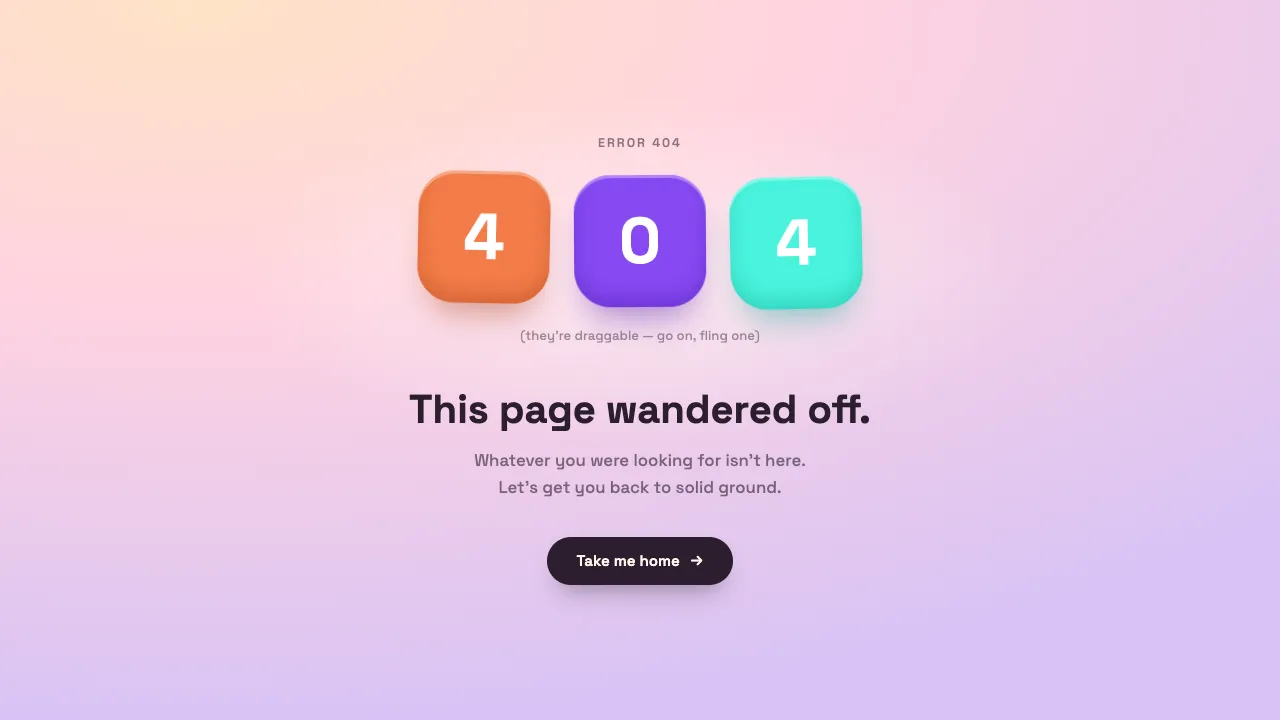
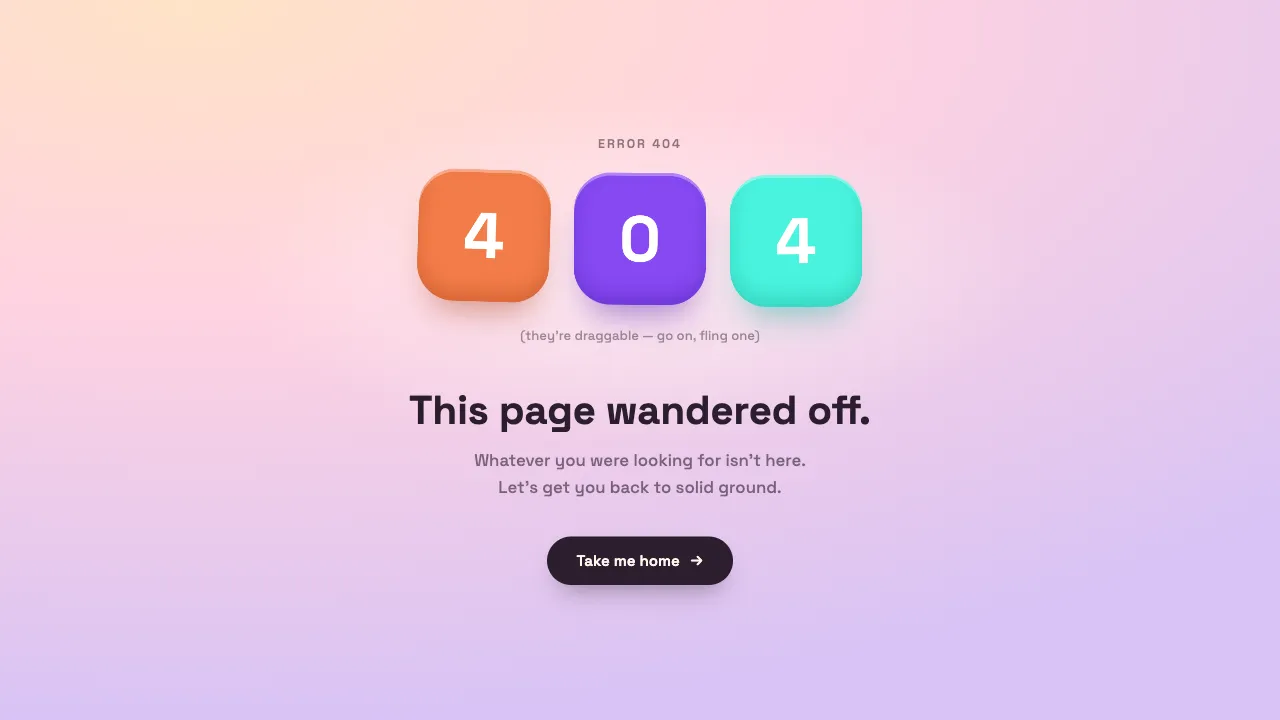
fix: harden Stray's drag gesture and add tactile tilt
setPointerCapture can throw in some browsers/scenarios; since it ran
before attaching the window pointermove/pointerup listeners, a
failure there silently killed the whole drag. Now wrapped in try/catch
so tracking still works via the window-level fallback listeners.

Also adds a visibilitychange safety net so a digit can never get
stuck displaced if the tab is hidden mid-flight (rAF freezes for
hidden documents, which would otherwise strand an in-progress spring),
and a subtle rotation tied to drag offset so the fling reads as a
physical object rather than a flat translation.

diff --git a/public/demo/08-stray/script.js b/public/demo/08-stray/script.js
@@ -4,6 +4,9 @@ const prefersReducedMotion = window.matchMedia('(prefers-reduced-motion: reduce)
 // levemente en overshoot al soltar — el "bounce" que solo debe pasar tras arrastrar.
 const SPRING = { stiffness: 220, damping: 18, mass: 1 }
 const REST_DELTA = 0.4
+const MAX_TILT = 14
+
+const instances = []
 
 class DraggableDigit {
   constructor(el) {
@@ -31,7 +34,13 @@ class DraggableDigit {
     this.cancelSpring()
     this.dragging = true
     this.pointerId = e.pointerId
-    this.el.setPointerCapture(e.pointerId)
+    try {
+      // Algunos navegadores pueden rechazar la captura en ciertos escenarios;
+      // seguimos igual con los listeners en window como respaldo.
+      this.el.setPointerCapture(e.pointerId)
+    } catch {
+      /* noop */
+    }
     this.el.classList.add('is-dragging')
 
     this.startPointerX = e.clientX
@@ -74,24 +83,34 @@ class DraggableDigit {
     window.removeEventListener('pointerup', this.onPointerUp)
 
     if (prefersReducedMotion) {
-      this.settleInstantly()
+      this.snapHome({ animate: true })
     } else {
       this.startSpring()
     }
   }
 
   applyTransform() {
-    this.el.style.transform = `translate(${this.x}px, ${this.y}px)`
+    // Ligera inclinación proporcional al desplazamiento horizontal: hace que el
+    // arrastre se sienta como un objeto físico volando, no solo una traslación.
+    const tilt = Math.max(-MAX_TILT, Math.min(MAX_TILT, this.x * 0.06))
+    this.el.style.transform = `translate(${this.x}px, ${this.y}px) rotate(${tilt}deg)`
   }
 
-  settleInstantly() {
-    this.el.style.transition = 'transform 220ms ease-out'
+  /** Reposiciona en el sitio al instante, sin animar. Usado como red de seguridad
+   * (pestaña oculta a mitad de vuelo) y para prefers-reduced-motion. */
+  snapHome({ animate = false } = {}) {
+    this.cancelSpring()
+    if (animate) {
+      this.el.style.transition = 'transform 220ms ease-out'
+      window.setTimeout(() => {
+        this.el.style.transition = ''
+      }, 240)
+    }
     this.x = 0
     this.y = 0
+    this.vx = 0
+    this.vy = 0
     this.applyTransform()
-    window.setTimeout(() => {
-      this.el.style.transition = ''
-    }, 240)
   }
 
   // RELEASE: resorte sembrado con la velocidad del gesto, no un keyframe fijo —
@@ -143,4 +162,14 @@ class DraggableDigit {
   }
 }
 
-document.querySelectorAll('[data-digit]').forEach((el) => new DraggableDigit(el))
+document.querySelectorAll('[data-digit]').forEach((el) => instances.push(new DraggableDigit(el)))
+
+// Red de seguridad: si la pestaña se oculta, rAF se congela y un resorte en vuelo
+// se quedaría atascado para siempre. Al ocultarse, resuelve al instante lo que no
+// se esté arrastrando activamente (lo que sigue en mano se resuelve al soltar).
+document.addEventListener('visibilitychange', () => {
+  if (!document.hidden) return
+  instances.forEach((inst) => {
+    if (!inst.dragging) inst.snapHome()
+  })
+})

diff --git a/workspace/08-stray/script.js b/workspace/08-stray/script.js
@@ -4,6 +4,9 @@ const prefersReducedMotion = window.matchMedia('(prefers-reduced-motion: reduce)
 // levemente en overshoot al soltar — el "bounce" que solo debe pasar tras arrastrar.
 const SPRING = { stiffness: 220, damping: 18, mass: 1 }
 const REST_DELTA = 0.4
+const MAX_TILT = 14
+
+const instances = []
 
 class DraggableDigit {
   constructor(el) {
@@ -31,7 +34,13 @@ class DraggableDigit {
     this.cancelSpring()
     this.dragging = true
     this.pointerId = e.pointerId
-    this.el.setPointerCapture(e.pointerId)
+    try {
+      // Algunos navegadores pueden rechazar la captura en ciertos escenarios;
+      // seguimos igual con los listeners en window como respaldo.
+      this.el.setPointerCapture(e.pointerId)
+    } catch {
+      /* noop */
+    }
     this.el.classList.add('is-dragging')
 
     this.startPointerX = e.clientX
@@ -74,24 +83,34 @@ class DraggableDigit {
     window.removeEventListener('pointerup', this.onPointerUp)
 
     if (prefersReducedMotion) {
-      this.settleInstantly()
+      this.snapHome({ animate: true })
     } else {
       this.startSpring()
     }
   }
 
   applyTransform() {
-    this.el.style.transform = `translate(${this.x}px, ${this.y}px)`
+    // Ligera inclinación proporcional al desplazamiento horizontal: hace que el
+    // arrastre se sienta como un objeto físico volando, no solo una traslación.
+    const tilt = Math.max(-MAX_TILT, Math.min(MAX_TILT, this.x * 0.06))
+    this.el.style.transform = `translate(${this.x}px, ${this.y}px) rotate(${tilt}deg)`
   }
 
-  settleInstantly() {
-    this.el.style.transition = 'transform 220ms ease-out'
+  /** Reposiciona en el sitio al instante, sin animar. Usado como red de seguridad
+   * (pestaña oculta a mitad de vuelo) y para prefers-reduced-motion. */
+  snapHome({ animate = false } = {}) {
+    this.cancelSpring()
+    if (animate) {
+      this.el.style.transition = 'transform 220ms ease-out'
+      window.setTimeout(() => {
+        this.el.style.transition = ''
+      }, 240)
+    }
     this.x = 0
     this.y = 0
+    this.vx = 0
+    this.vy = 0
     this.applyTransform()
-    window.setTimeout(() => {
-      this.el.style.transition = ''
-    }, 240)
   }
 
   // RELEASE: resorte sembrado con la velocidad del gesto, no un keyframe fijo —
@@ -143,4 +162,14 @@ class DraggableDigit {
   }
 }
 
-document.querySelectorAll('[data-digit]').forEach((el) => new DraggableDigit(el))
+document.querySelectorAll('[data-digit]').forEach((el) => instances.push(new DraggableDigit(el)))
+
+// Red de seguridad: si la pestaña se oculta, rAF se congela y un resorte en vuelo
+// se quedaría atascado para siempre. Al ocultarse, resuelve al instante lo que no
+// se esté arrastrando activamente (lo que sigue en mano se resuelve al soltar).
+document.addEventListener('visibilitychange', () => {
+  if (!document.hidden) return
+  instances.forEach((inst) => {
+    if (!inst.dragging) inst.snapHome()
+  })
+})
